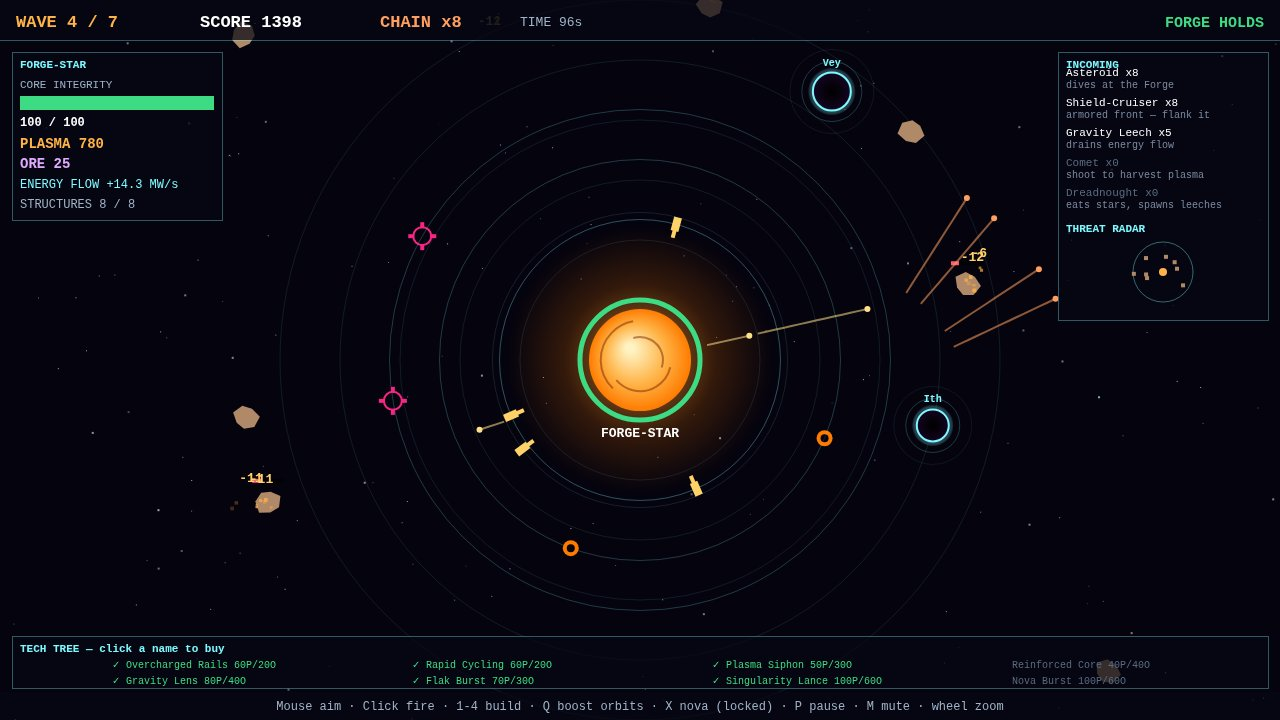
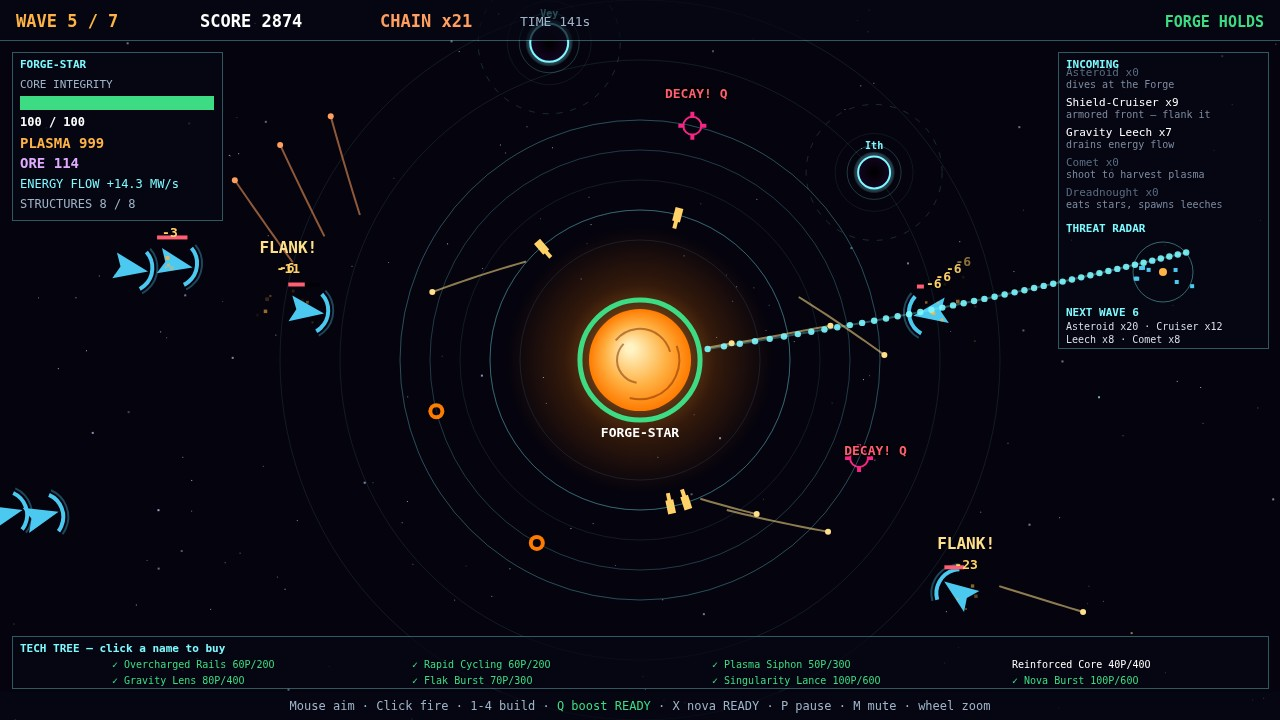
GRAVITAS FORGE Pass 4: re-stage all 4 screenshots to top-1 standard
- Title: 24s live demo with 5 structures + AI firing (was 14s/3), fresh
  orbits so no DECAY! Q clutter on the title frame
- Action: wave 5 freeze at 8 enemies, waits for a live FLANK! number,
  chain shown at run peak (x21), exactly 2 structures decayed (Q READY),
  aim on the nearest cruiser (armor arc in frame)
- Win: real current-run numbers (SCORE 5859, KILLS 180, 229s); end-screen
  scrim lightened 0.72->0.60 so the star and ring glow through
- Cover: kept from Pass 3 (boss 847/1700, PHASE II, FLANK!, curved arc)
- No gameplay/balance changes; dossier 676,279 B

diff --git a/game/src/main.js b/game/src/main.js
@@ -324,10 +324,13 @@ function setupTitleDemo() {
   world.plasma = 200;
   world.ore = 100;
   world.tech.reset();
-  // Three pre-built structures so the demo battle looks alive.
+  // Five pre-built structures so the demo battle looks alive — two turrets
+  // and a repulsor join the flak and Dyson ring (title staging + live title).
+  world.structures.push(new OrbitalStructure('turret', world));
   world.structures.push(new OrbitalStructure('turret', world));
   world.structures.push(new OrbitalStructure('flak', world));
   world.structures.push(new OrbitalStructure('dyson', world));
+  world.structures.push(new OrbitalStructure('repulsor', world));
 }
 
 setupTitleDemo();
@@ -412,23 +415,57 @@ function stepSim(seconds, driver) {
 function stageShot(name) {
   if (name === 'title') {
     setupTitleDemo();
-    stepSim(14, null);
+    // Title staging: a longer demo (24s) with the AI aiming and firing like
+    // the live title screen, so the battle behind the title reads dense —
+    // tracers, damage numbers, comets — instead of mostly empty black.
+    stepSim(24, () => autoplayStepTitle(FIXED_DT));
+    // Title staging: fresh orbits, so no DECAY! Q labels clutter the title
+    // frame (the demo runs long enough for the ring to decay past 12px).
+    world.structures.forEach((s) => {
+      s.orbitR = s.nominalR;
+      s.x = STAR_X + Math.cos(s.angle) * s.orbitR;
+      s.y = STAR_Y + Math.sin(s.angle) * s.orbitR;
+    });
     world.aim.active = false;
   } else if (name === 'play') {
     world.engine.startRun();
     window.__gravitas.autoplay = true;
-    // Fast-forward until wave 4 is in full swing, then freeze mid-fight.
+    // Fast-forward until wave 4 is in full swing with a dense field, then
+    // freeze mid-fight.
     let steps = 0;
     while (steps < 60 * 300) {
       if (world.fireCooldown > 0) world.fireCooldown -= FIXED_DT;
       autoplayStep();
       world.engine.step(FIXED_DT, systems);
       steps++;
-      if (world.wave >= 4 && world.enemies.length >= 8) break;
+      if (world.wave >= 5 && world.enemies.length >= 8) break;
+      if (world.phase === 'won' || world.phase === 'lost') break;
+    }
+    // Action staging: keep stepping until a gold FLANK! number is on screen
+    // (flank hits land often, but the numbers only live 0.9s), so the frame
+    // shows the hook, not just a quiet moment between hits.
+    let extra = 0;
+    while (extra < 60 * 10 && !world.damageNumbers.some((d) => d.text === 'FLANK!')) {
+      if (world.fireCooldown > 0) world.fireCooldown -= FIXED_DT;
+      autoplayStep();
+      world.engine.step(FIXED_DT, systems);
+      extra++;
       if (world.phase === 'won' || world.phase === 'lost') break;
     }
     window.__gravitas.autoplay = false;
-    aimAtNearestEnemy();
+    if (world.phase === 'playing') {
+      // Action staging: show the run's real peak chain (at least x8, capped
+      // at the x12 score-multiplier cap), and exactly two structures stay
+      // decayed so the Q boost stays READY without six DECAY! Q labels.
+      world.chain = Math.max(world.chain, Math.min(Math.max(world.peakChain, 8), 12));
+      world.chainTimer = 2.5;
+      world.structures.forEach((s, i) => {
+        s.orbitR = i < 2 ? s.nominalR - 20 : s.nominalR;
+        s.x = STAR_X + Math.cos(s.angle) * s.orbitR;
+        s.y = STAR_Y + Math.sin(s.angle) * s.orbitR;
+      });
+    }
+    aimAtFlankTarget();
   } else if (name === 'boss') {
     world.engine.startRun();
     window.__gravitas.autoplay = true;
@@ -485,6 +522,31 @@ function aimAtNearestEnemy() {
   let target = world.boss;
   if (!target) {
     let bestD = Infinity;
+    for (const e of world.enemies) {
+      const d = Math.hypot(e.x - STAR_X, e.y - STAR_Y);
+      if (d < bestD) { bestD = d; target = e; }
+    }
+  }
+  if (target) {
+    world.mouseX = target.x;
+    world.mouseY = target.y;
+    updateAim();
+    world.aim.active = true;
+  }
+}
+
+// Point the aim at the nearest cruiser — the flank target, whose front-armor
+// arc reads in frame — falling back to the boss, then the nearest enemy.
+function aimAtFlankTarget() {
+  let target = null;
+  let bestD = Infinity;
+  for (const e of world.enemies) {
+    if (e.kind !== 'cruiser') continue;
+    const d = Math.hypot(e.x - STAR_X, e.y - STAR_Y);
+    if (d < bestD) { bestD = d; target = e; }
+  }
+  if (!target) target = world.boss;
+  if (!target) {
     for (const e of world.enemies) {
       const d = Math.hypot(e.x - STAR_X, e.y - STAR_Y);
       if (d < bestD) { bestD = d; target = e; }

diff --git a/game/src/ui/TelemetryHUDRenderer.js b/game/src/ui/TelemetryHUDRenderer.js
@@ -661,7 +661,9 @@ export class TelemetryHUDRenderer {
 
   drawEnd(ctx, w) {
     const won = w.phase === 'won';
-    ctx.fillStyle = won ? 'rgba(3, 20, 8, 0.72)' : 'rgba(25, 3, 8, 0.78)';
+    // End-screen scrim, kept light enough that the Forge-Star, its ring of
+    // structures and the moons still glow through behind the results.
+    ctx.fillStyle = won ? 'rgba(3, 20, 8, 0.60)' : 'rgba(25, 3, 8, 0.64)';
     ctx.fillRect(0, 0, 1280, 720);
     ctx.textAlign = 'center';
     ctx.fillStyle = won ? GREEN : RED;
